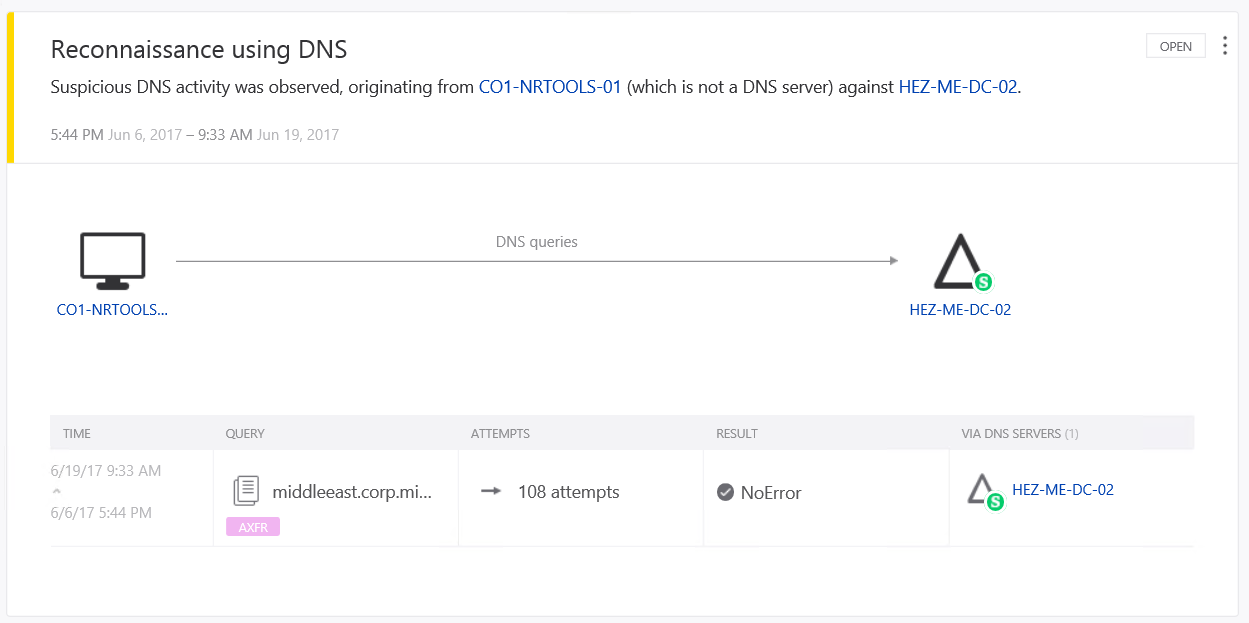
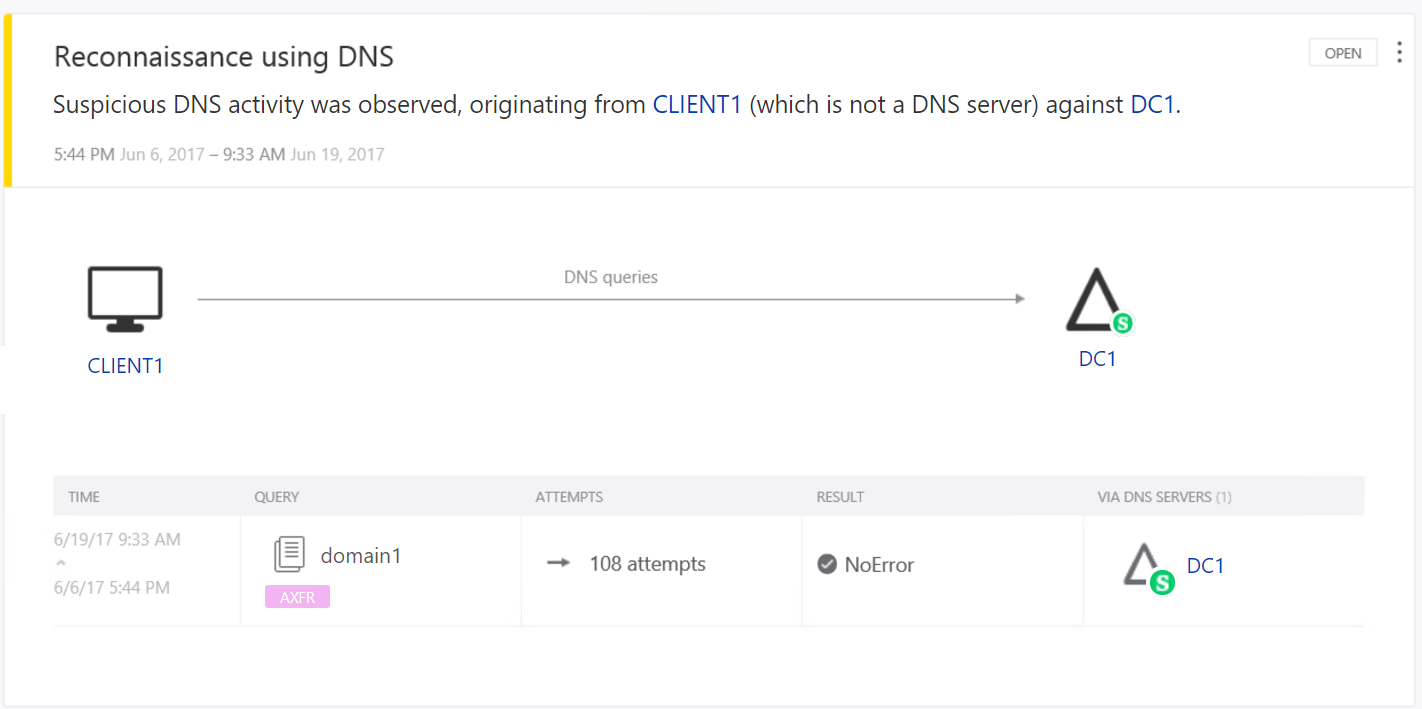
fixed dns, updated exclusions

diff --git a/ATADocs/excluding-entities-from-detections.md b/ATADocs/excluding-entities-from-detections.md
@@ -37,17 +37,19 @@ For example, if you have a security scanner that does DNS recon or an admin who 
 
 To exclude entities from raising alerts in ATA:
 
-In the Suspicious activity timeline, when you receive an alert on an activity for a user or computer or IP address that is allowed to perform the particular activity and may do so frequently, right click the three dots at the end of the row for the suspicious activity on that entity, and select **Close and exclude**. <br></br>This will add the user, computer or IP address to the exclusions list for that suspicious activity. It will also close the suspicious activity and it will no longer be listed in the **Open** events list in the **Suspicious activity timeline**.
+There are two ways in which you can exclude entities, from the suspicious activity itself, or from the **Exclusions** tab on the **Configuration** page.
+
+- **From the suspicious activity**: In the Suspicious activity timeline, when you receive an alert on an activity for a user or computer or IP address that is allowed to perform the particular activity and may do so frequently, right click the three dots at the end of the row for the suspicious activity on that entity, and select **Close and exclude**. <br></br>This will add the user, computer or IP address to the exclusions list for that suspicious activity. It will also close the suspicious activity and it will no longer be listed in the **Open** events list in the **Suspicious activity timeline**.
 
     ![Exclude entity](./media/exclude-in-sa.png)
 
-To review or modify any exclusions you set: under **Configuration** click **Exclusions** and then select the suspicious activity, such as **Sensitive account credentials exposed**.
+- **From the Configuration page**:  To review or modify any exclusions you set: under **Configuration** click **Exclusions** and then select the suspicious activity, such as **Sensitive account credentials exposed**.
 
     ![Exclusion configuration](./media/exclusions-config-page.png)
 
 To remove an entity from the **Exclusions** configuration: click the minus next to the entity name and then click **Save** at the bottom of the page.
 
-It is recommended that you add exclusions to detections only after  you get alerts of the type and determine that they are true benign positives. 
+It is recommended that you add exclusions to detections only after you get alerts of the type and determine that they are true benign positives. 
 
 > [!NOTE]
 > For your protection, not all detections provide the possibility to set exclusions. 
@@ -56,7 +58,7 @@ Some of the detections provide tips that help you decide what to exclude.
 
 Each exclusion depends on the context,in some you can set users while for others you can set computers or IP addresses. 
 
-When you have the possibility of exclusing an IP address or a computer,you can exclude one or the other - you don’t need to provide both.
+When you have the possibility of excluding an IP address or a computer,you can exclude one or the other - you don’t need to provide both.
 
 > [!NOTE]
 > The configuration pages can only be modified by ATA admins.

diff --git a/ATADocs/ata-capacity-planning.md b/ATADocs/ata-capacity-planning.md
@@ -70,7 +70,7 @@ The ATA Center requires a recommended minimum of 30 days of data for user behavi
 
 &#42;&#42;Average numbers (Peak numbers)
 > [!NOTE]
-> -   The ATA Center can handle an aggregated maximum of 400,000 packets per second (FPS) from all the monitored domain controllers. In some environments, the same ATA Center can handle overall traffic that is higher than 400,000. Contact askcesec@microsoft.com for assistance with such environments.
+> -   The ATA Center can handle an aggregated maximum of 1M packets per second from all the monitored domain controllers. In some environments, the same ATA Center can handle overall traffic that is higher than 400,000. Contact askcesec@microsoft.com for assistance with such environments.
 > -   The amount of storage dictated here are net values. You should always account for future growth and to make sure that the disk the database resides on has at least 20% of free space.
 > -   If your free space reaches a minimum of either 20% or 100 GB, the oldest collection of data is deleted. Deletion continues to occur until 5% or 50 GB of free space remains at which point data collection stops working.
 > - It's possible to deploy the ATA Center on any IaaS vendor as long as the performance requirements that are described in this article are met.

diff --git a/ATADocs/use-case-dns.md b/ATADocs/use-case-dns.md
@@ -65,7 +65,7 @@ The following chart helps determine the investigation steps you should take:
  
 1.	The first step is to identify the machine the alert originates from, as depicted below:
  
-    ![View DNS reconnaissance suspicious activity in ATA](./media/dns-recon-2.png)
+    ![View DNS reconnaissance suspicious activity in ATA](./media/dns-recon.png)
 2.	Identify what this machine is. Is it a workstation, server, admin workstation, pen-testing station, etc.?
 3.	If the computer is a DNS server and has legitimate rights to request a secondary copy of the zone, then it is a false positive. When you find a false positive, use the **Exclude** option so that you won't get this specific alert for this machine anymore.
 4. Make sure UDP port 53 is open between the ATA Gateway and your DNS server.

diff --git a/ATADocs/whats-new-version-1.8.md b/ATADocs/whats-new-version-1.8.md
@@ -28,7 +28,7 @@ ms.suite: ems
 
 # What's new in ATA version 1.8
 
-The latest update version of ATA can be[downloaded from the Download Center](https://www.microsoft.com/download/details.aspx?id=55536)  or the full version can be downloaded from the [Eval center](http://www.microsoft.com/evalcenter/evaluate-microsoft-advanced-threat-analytics).
+The latest update version of ATA can be [downloaded from the Download Center](https://www.microsoft.com/download/details.aspx?id=55536)  or the full version can be downloaded from the [Eval center](http://www.microsoft.com/evalcenter/evaluate-microsoft-advanced-threat-analytics).
 
 These release notes provide information about updates, new features, bug fixes and known issues in this version of Advanced Threat Analytics.
 
